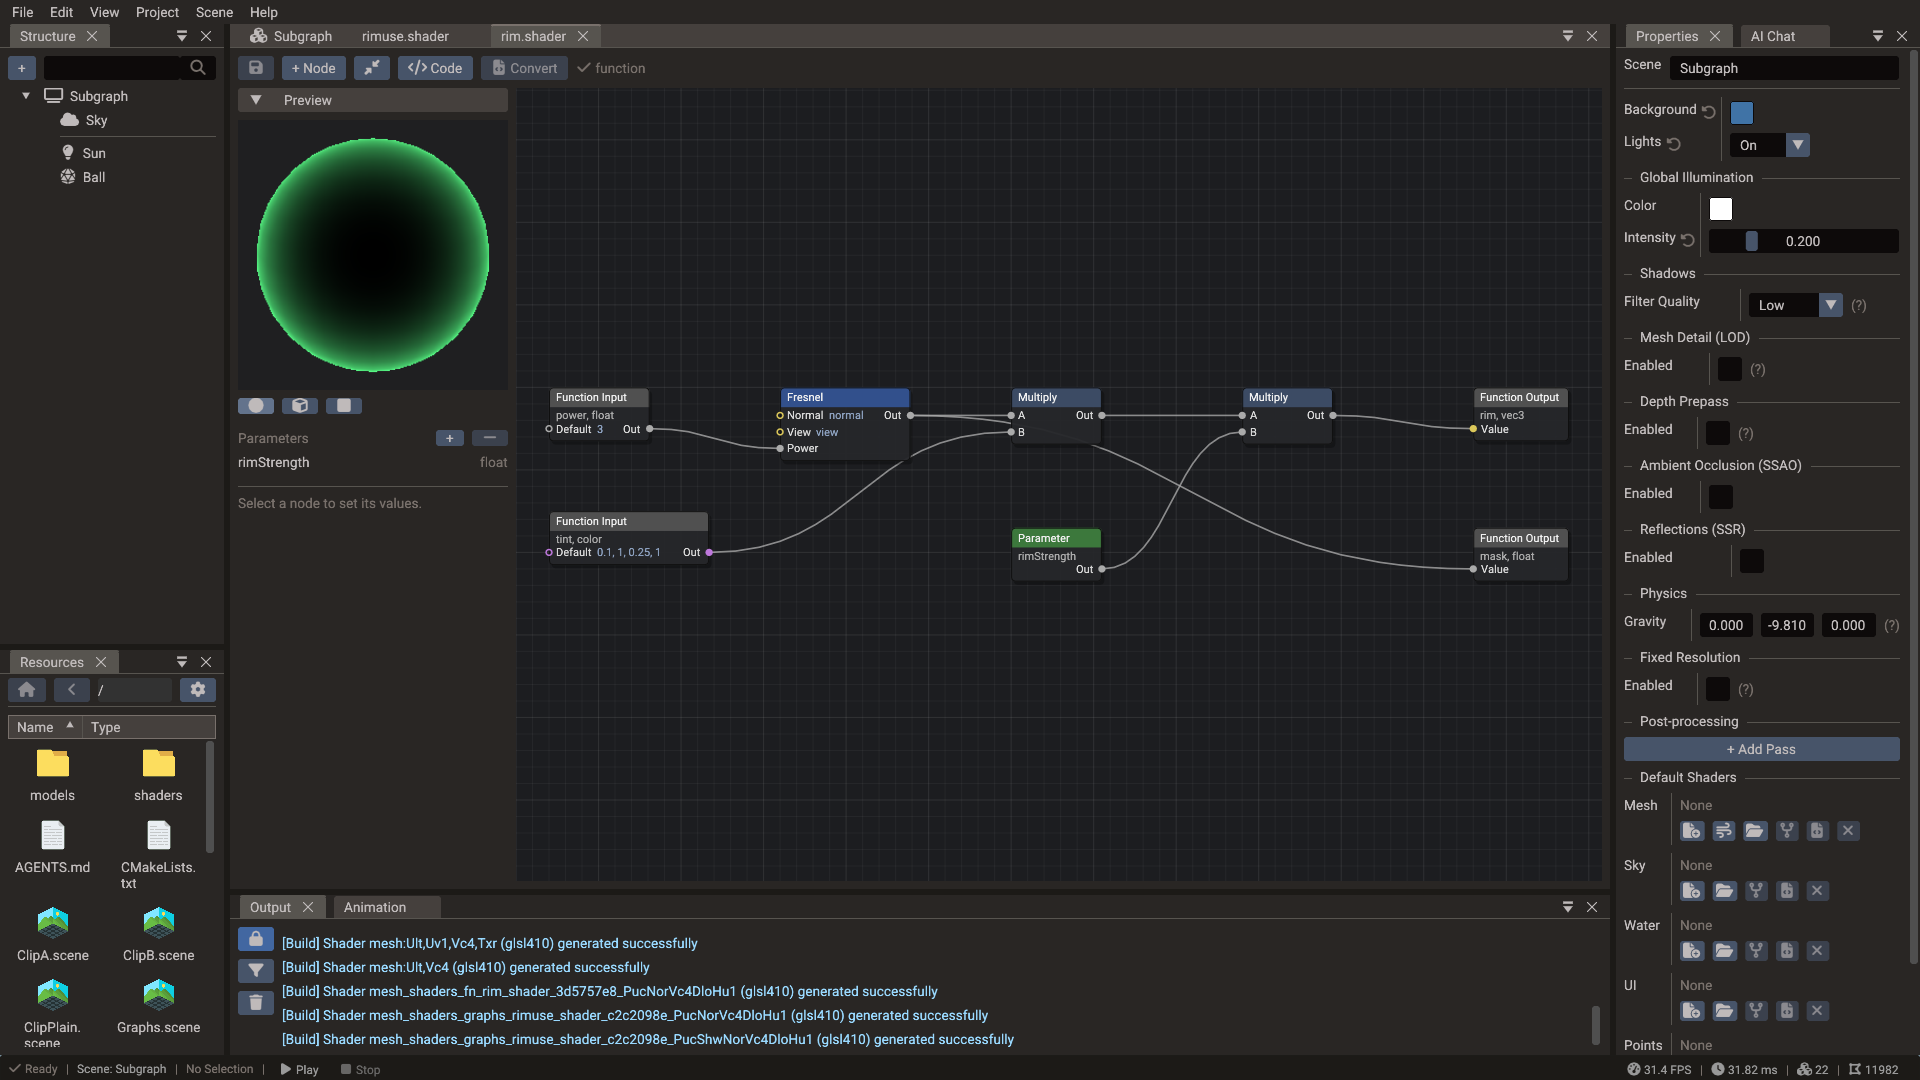
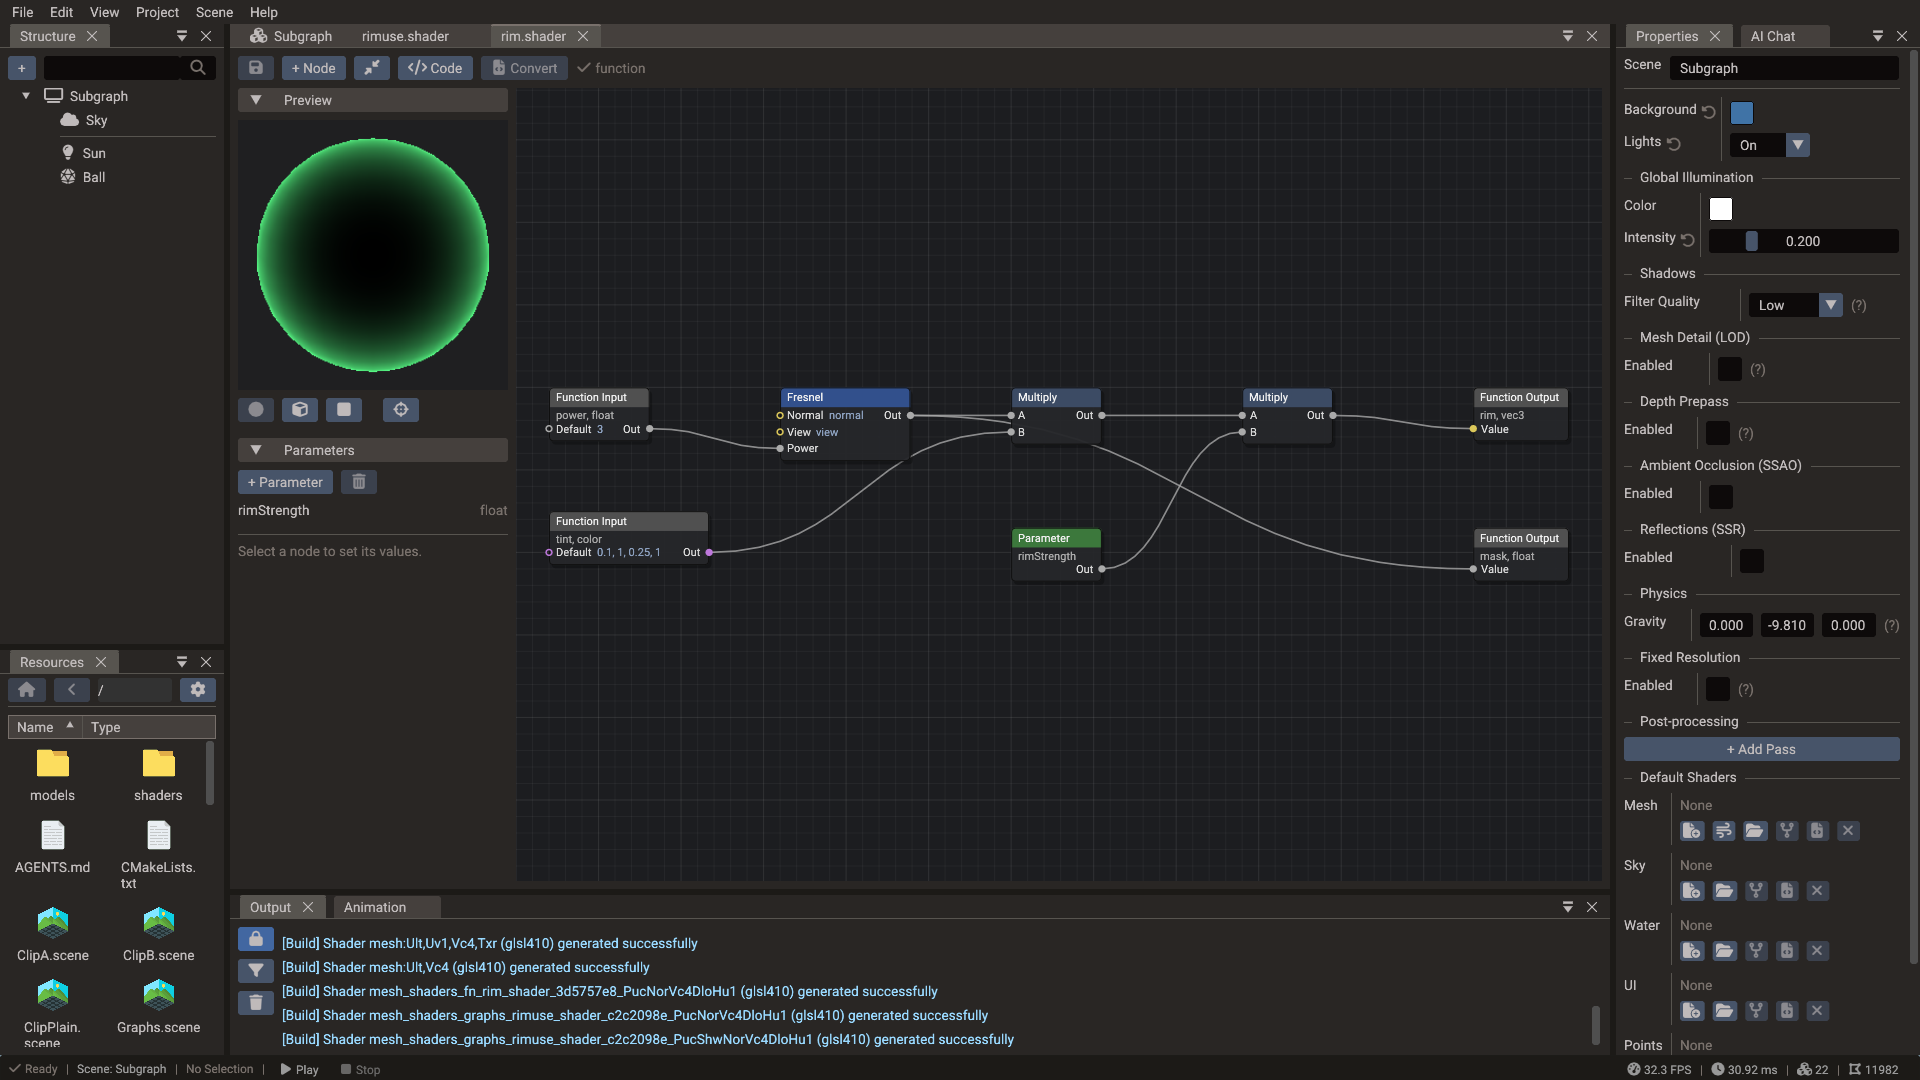
Sprites with shader files batch; graph panel buttons

Changed region(s): [[0.125, 0.3667, 0.2812, 0.5194], [0.0938, 0.7639, 0.125, 0.7944]]

diff --git a/docs/manual/rendering-pipeline.md b/docs/manual/rendering-pipeline.md
@@ -912,12 +912,17 @@ Supported graphics backends (`GraphicBackend` enum):
 ## Sprite batching
 
 Sprites drawn one after another share one draw call when they use the same texture,
-shader, and blending. A sprite qualifies when it is a single quad drawn unlit with the
-built-in mesh shader: no light reaches it (the scene has none, or its Mesh has
-**Receive Lights** off), neither the mesh nor the scene sets a custom mesh shader, and
-its texture is an image rather than a [framebuffer](#framebuffers-and-render-to-texture).
-Instanced meshes, tilemaps, and terrains are drawn on their own and never join a sprite
-batch.
+shader, and blending. A sprite qualifies when it is a single quad drawn unlit: no light
+reaches it (the scene has none, or its Mesh has **Receive Lights** off), and its texture
+is an image rather than a [framebuffer](#framebuffers-and-render-to-texture). Instanced
+meshes, tilemaps, and terrains are drawn on their own and never join a sprite batch.
+
+A batch draws its sprites in world space, with their texture regions and colors in the
+vertices. Sprites with a [shader file](shader-files.md) batch with sprites of the same
+file, the same parameter values and the same **Max Offset**, unless the file's hooks read
+something that changes there: the local position, the object's position or scale, or the
+normal; the scene behind; `uv1` in the vertex stage, on a sprite with a texture region;
+or the vertex color, on a sprite with a color. Those sprites draw one by one.
 
 Batches follow draw order. Without a depth test, as in most 2D scenes, objects draw in
 hierarchy order, so keep sprites that share a texture or atlas next to each other: an
@@ -927,8 +932,8 @@ A sprite that nothing changes keeps a copy of its batch data from frame to frame
 drawing it costs very little, and moving it only moves its corners. Changing it through
 the Sprite or Mesh API, such as a new texture region, color, or flip, makes it take the
 copy again on the next update. Only sprites keep a copy: other quads still batch but are
-rebuilt every frame, and so are billboards and sprites whose entity also has a camera,
-light, sound, model, or bone component. C++ code that writes a sprite's `MeshComponent`
+rebuilt every frame, and so are sprites with a shader file, billboards, and sprites whose
+entity also has a camera, light, sound, model, or bone component. C++ code that writes a sprite's `MeshComponent`
 directly sets `SpriteComponent::needUpdateBatch`, see
 [Writing components directly](entity-component-system.md#writing-components-directly).
 

diff --git a/docs/editor/shader-graphs.md b/docs/editor/shader-graphs.md
@@ -72,9 +72,10 @@ group and changes its color, or edits a comment's text.
 ## Parameters
 
 Parameters are the graph's values for Properties, the `#pragma param` lines of the code.
-**+** adds one by type: float, vector 2 to 4, color, integer, 2D texture or cube map.
-Selecting one in the list edits its name, default, range, the filter and wrap of a
-texture, whether scripts set it (it is then hidden in Properties) and its description.
+**+ Parameter** adds one by type: float, vector 2 to 4, color, integer, 2D texture or cube
+map, and the trash button removes the selected one with its links. Selecting one in the
+list edits its name, default, range, the filter and wrap of a texture, whether scripts set
+it (it is then hidden in Properties) and its description.
 Nodes refer to a parameter by its id, so renaming one changes nothing else; a name must be
 a GLSL name nobody else uses.
 

diff --git a/docs/manual/shader-files.md b/docs/manual/shader-files.md
@@ -512,6 +512,11 @@ variant and the count when one is passed: 16 textures and 16 samplers per stage,
 blocks per stage outside OpenGL, and 15 varyings on WebGL 2. A shader file adds at most
 one or two samplers and four varyings to what the engine uses.
 
+Sprites drawing with one shader file share a draw call while its hooks read only what
+stays the same once they are batched in world space: not the local position, the
+object's position or scale, or the normal. See
+[Sprite batching](rendering-pipeline.md#sprite-batching) for the rest.
+
 ## Export
 
 Saving a scene records the shader variants its components use, and an export compiles
